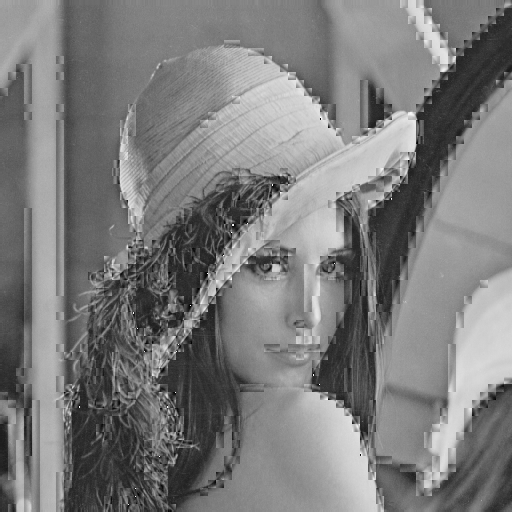
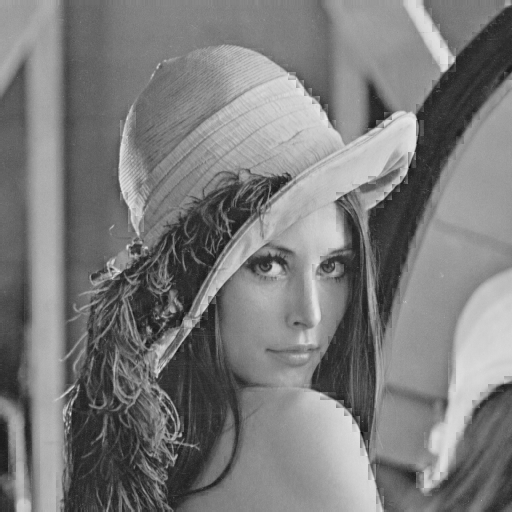
fix: quantize with int8 bound

diff --git a/hw4/main.go b/hw4/main.go
@@ -181,7 +181,13 @@ func quantize(dct [][]float64) [][]int {
 	}
 	for i := 0; i < w; i++ {
 		for j := 0; j < h; j++ {
-			ret[i][j] = int(int8(dct[i][j]))
+			if dct[i][j] < math.MinInt8 {
+				ret[i][j] = math.MinInt8
+			} else if dct[i][j] > math.MaxInt8 {
+				ret[i][j] = math.MaxInt8
+			} else {
+				ret[i][j] = int(int8(dct[i][j]))
+			}
 		}
 	}
 	ret[0][0] = int(int16(dct[0][0]))
